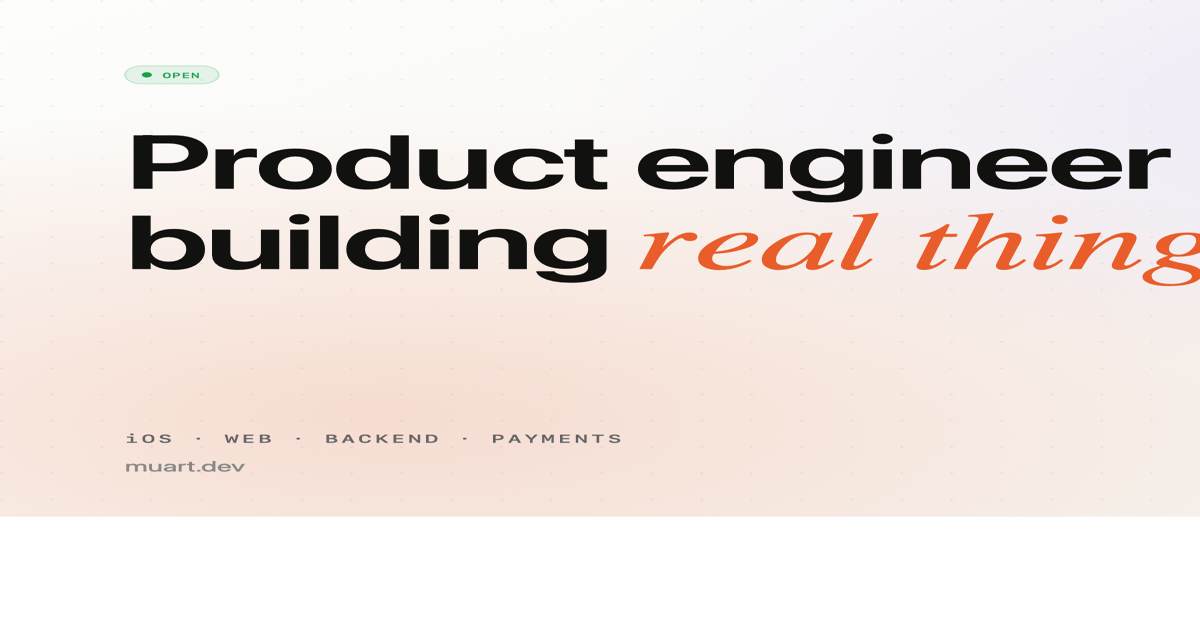
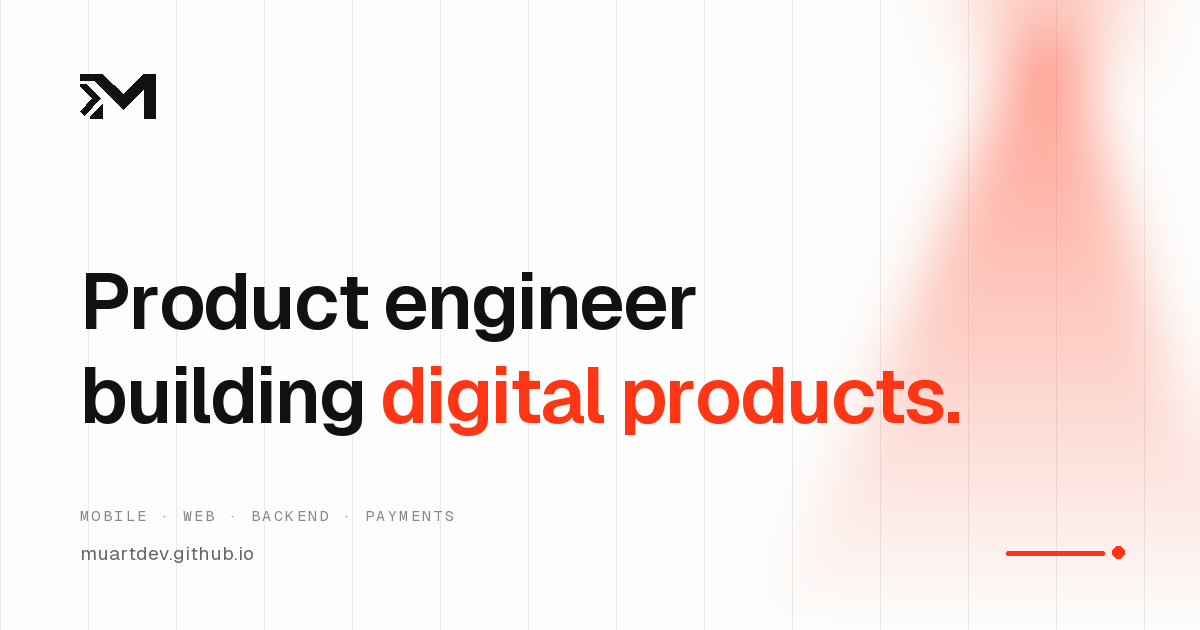
Centre the wide layout, refresh og image, stop hero and theme jitter
Desktop:
- centre the rail + content as one block above 1200px instead of pinning the
  rail left, which left a large void down the right edge on wide screens
- align the header contents to that block; hide the marquee scrollbar and the
  scroll hint, both of which sat in the empty margin

Social preview:
- redraw og.png in the current design (ruling, beam, M mark, real Geist) —
  the old one still carried the previous accent colour, the retired "OPEN"
  pill and the wrong address, muart.dev
- bump og:image to ?v=2 so the platforms refetch instead of serving cache

Hero:
- reserve the widest word of the active language behind the typewriter so the
  line width never changes; the width is measured, not counted, since
  "backend systems." is wider than the longer "digital products."
- account for the cursor's own 8px, and drop `text-wrap: balance` from the h1

Theme:
- collapse the two media-scoped theme-color tags into one; querySelector only
  ever found the light-scoped tag, so the browser chrome ignored the site's
  theme whenever the OS was dark
- swap the theme in one step. Custom properties don't animate, so the timed
  background fade left panels and borders snapping ahead of the page. Only
  the lamp still fades.

diff --git a/index.html b/index.html
@@ -5,20 +5,20 @@
   <meta name="viewport" content="width=device-width, initial-scale=1.0" />
   <meta name="description" content="Murat — Product Engineer building real products across mobile, web, and backend." />
   <meta name="author" content="Murat" />
-  <meta name="theme-color" content="#fdfdfc" media="(prefers-color-scheme: light)" />
-  <meta name="theme-color" content="#161616" media="(prefers-color-scheme: dark)" />
+  <!-- one unscoped tag: the site's own theme wins, not the OS preference -->
+  <meta name="theme-color" content="#fdfdfc" />
   <title>Murat — Product Engineer</title>
   <meta property="og:title" content="Murat — Product Engineer" />
   <meta property="og:description" content="Product engineer building real products across mobile, web, and backend." />
   <meta property="og:type" content="website" />
   <meta property="og:url" content="https://muartdev.github.io/" />
-  <meta property="og:image" content="https://muartdev.github.io/og.png" />
+  <meta property="og:image" content="https://muartdev.github.io/og.png?v=2" />
   <meta property="og:image:width" content="1200" />
   <meta property="og:image:height" content="630" />
   <meta name="twitter:card" content="summary_large_image" />
   <meta name="twitter:title" content="Murat — Product Engineer" />
   <meta name="twitter:description" content="Product engineer building real products across mobile, web, and backend." />
-  <meta name="twitter:image" content="https://muartdev.github.io/og.png" />
+  <meta name="twitter:image" content="https://muartdev.github.io/og.png?v=2" />
   <link rel="preconnect" href="https://fonts.googleapis.com" />
   <link rel="preconnect" href="https://fonts.gstatic.com" crossorigin />
   <link href="https://fonts.googleapis.com/css2?family=Geist:wght@400;500;600;700&family=Geist+Mono:wght@400;500&family=Instrument+Serif:ital@0;1&display=swap" rel="stylesheet" />
@@ -73,6 +73,8 @@
       --panel-hover: rgba(255, 255, 255, 0.78);
       --glass: blur(16px) saturate(170%);
       --rail-w: 232px;
+      --layout-max: 1440px;
+      --gutter: 0px; /* set from JS on wide screens so rail + content centre as one block */
 
       /* Hero backdrop */
       --fx-line: rgba(17, 17, 16, 0.085);
@@ -131,11 +133,17 @@
       -webkit-font-smoothing: antialiased;
       -webkit-tap-highlight-color: transparent;
       -webkit-text-size-adjust: 100%;
-      transition: background 0.4s ease, color 0.4s ease;
       overflow-x: clip;
     }
 
-    h1, h2, h3 { text-wrap: balance; }
+    /* held for one beat while data-theme flips, so nothing is caught mid-fade */
+    .theme-switching *,
+    .theme-switching *::before,
+    .theme-switching *::after { transition: none !important; }
+    /* the lamp is the one thing that should still fade — it reads as switching off */
+    .theme-switching .bg-fx { transition: opacity 0.5s ease !important; }
+
+    h2, h3 { text-wrap: balance; }
     p { text-wrap: pretty; }
 
     body.drawer-open { overflow: hidden; }
@@ -489,10 +497,15 @@
     .hero h1 .accent {
       color: var(--orange);
       font-family: var(--sans); font-style: normal; font-weight: 600;
-      position: relative;
-      display: inline-block;
-      white-space: nowrap;
+      /* ghost + live text share one cell, so the line is always as wide as the
+         longest word and the typewriter can never reflow anything */
+      display: inline-grid;
+      vertical-align: top;
     }
+    .hero h1 .accent > * { grid-area: 1 / 1; white-space: nowrap; }
+    /* padding = the cursor's own 4px width + its 4px margin */
+    .tw-ghost { visibility: hidden; padding-right: 8px; }
+    .tw-live { justify-self: start; }
     .cursor {
       display: inline-block;
       width: 4px;
@@ -941,12 +954,22 @@
 
     /* Wide screens: the panel stops being an overlay and becomes a permanent rail */
     @media (min-width: 1200px) {
-      body { padding-left: var(--rail-w); }
-      /* header spans the whole window, rail sits under it */
-      .topbar { margin-left: calc(-1 * var(--rail-w)); }
-      .topbar .shell { width: calc(100% - 56px); }
+      body {
+        padding-left: calc(var(--gutter) + var(--rail-w));
+        padding-right: var(--gutter);
+      }
+      /* header spans the whole window, its contents line up with the layout block */
+      .topbar {
+        margin-left: calc(-1 * (var(--gutter) + var(--rail-w)));
+        margin-right: calc(-1 * var(--gutter));
+      }
+      .topbar .shell { width: min(calc(100% - 56px), calc(var(--layout-max) - 56px)); }
+      .scroll-rail { display: none; }
+      .marquee-container { scrollbar-width: none; }
+      .marquee-container::-webkit-scrollbar { display: none; }
       .menu-btn, .drawer-scrim, .drawer-head { display: none; }
       .drawer {
+        left: var(--gutter);
         top: var(--topbar-h, 65px);
         height: calc(100dvh - var(--topbar-h, 65px));
         width: var(--rail-w);
@@ -1179,7 +1202,7 @@
   <main>
     <section class="hero shell" id="top">
       <div class="hero-copy">
-        <h1 data-i18n="hero.title" data-i18n-html>Product engineer<br />building<br /><span class="accent" id="typewriter"></span><span class="cursor"></span></h1>
+        <h1 data-i18n="hero.title" data-i18n-html>Product engineer<br />building<br /><span class="accent"><span class="tw-ghost" aria-hidden="true"></span><span class="tw-live"><span id="typewriter"></span><span class="cursor"></span></span></span></h1>
         <p class="hero-sub" data-i18n="hero.sub">I build products end to end: mobile apps, websites, authentication, payments, and deployment.</p>
         <div class="hero-cta">
           <a class="btn btn-primary" href="#work" data-i18n="hero.cta1">View Work</a>
@@ -1408,7 +1431,7 @@
   <script>
     const I18N = {
       en: {
-        "hero.title":"Product engineer<br />building<br /><span class=\"accent\" id=\"typewriter\"></span><span class=\"cursor\"></span>",
+        "hero.title":"Product engineer<br />building<br /><span class=\"accent\"><span class=\"tw-ghost\" aria-hidden=\"true\"></span><span class=\"tw-live\"><span id=\"typewriter\"></span><span class=\"cursor\"></span></span></span>",
         "hero.sub":"I build products end to end: mobile apps, websites, authentication, payments, and deployment.",
         "hero.cta1":"View Work","hero.cta2":"Get in touch",
         "nav.home":"Home","nav.work":"Selected Work","nav.stack":"What I Handle","nav.about":"About","nav.contact":"Contact",
@@ -1491,7 +1514,7 @@
         "footer.left":"© 2026 Murat — Turkey."
       },
       tr: {
-        "hero.title":"Product Engineer —<br /><span class=\"accent\" id=\"typewriter\"></span><span class=\"cursor\"></span>",
+        "hero.title":"Product Engineer —<br /><span class=\"accent\"><span class=\"tw-ghost\" aria-hidden=\"true\"></span><span class=\"tw-live\"><span id=\"typewriter\"></span><span class=\"cursor\"></span></span></span>",
         "hero.sub":"Mobil uygulamadan web sitesine, kimlik doğrulamadan ödemeye ve yayına almaya kadar ürünleri uçtan uca geliştiriyorum.",
         "hero.cta1":"Projeleri Gör","hero.cta2":"İletişime Geç",
         "nav.home":"Ana Sayfa","nav.work":"Seçili İşler","nav.stack":"Neleri Üstlenirim","nav.about":"Hakkımda","nav.contact":"İletişim",
@@ -1576,12 +1599,17 @@
     };
 
     function setTheme(t) {
-      document.documentElement.setAttribute("data-theme", t);
+      const root = document.documentElement;
+      // Custom properties don't animate, so a timed fade would leave panels and
+      // borders snapping while the page background lags. Swap everything at once.
+      root.classList.add("theme-switching");
+      root.setAttribute("data-theme", t);
       localStorage.setItem("theme", t);
       const m = document.querySelector('meta[name="theme-color"]');
-      if (m) m.setAttribute("content", t === "dark" ? "#0a0a0a" : "#fdfdfc");
+      if (m) m.setAttribute("content", t === "dark" ? "#0b0b0b" : "#fdfdfc");
       const tt = document.getElementById("themeToggle");
       if (tt) tt.setAttribute("aria-pressed", t === "dark" ? "true" : "false");
+      setTimeout(() => root.classList.remove("theme-switching"), 60);
     }
 
     const typeWords = {
@@ -1601,7 +1629,24 @@
       typeIndex = 0;
       const tw = document.getElementById("typewriter");
       if(tw) tw.textContent = "";
+      sizeTypewriterGhost();
       typeCycle();
+    };
+
+    /* Reserve the widest word of the active language. Measured, not counted —
+       the longest string is not always the widest one. */
+    window.sizeTypewriterGhost = () => {
+      const ghost = document.querySelector(".tw-ghost");
+      if (!ghost) return;
+      const lang = document.documentElement.getAttribute("lang") || "en";
+      const words = typeWords[lang] || typeWords.en;
+      let widest = "", max = -1;
+      for (const w of words) {
+        ghost.textContent = w;
+        const px = ghost.getBoundingClientRect().width;
+        if (px > max) { max = px; widest = w; }
+      }
+      ghost.textContent = widest;
     };
 
     const typeCycle = () => {
@@ -1649,6 +1694,11 @@
       root.setProperty("--fx-lamp-x", (k.left + k.width / 2).toFixed(1) + "px");
       root.setProperty("--fx-lamp-top", (k.bottom - barTop - 2).toFixed(1) + "px");
       root.setProperty("--topbar-h", bar.offsetHeight + "px");
+
+      // centre the rail + content block once the window is wider than the layout
+      const avail = document.documentElement.clientWidth;
+      const max = parseInt(getComputedStyle(document.documentElement).getPropertyValue("--layout-max")) || 1440;
+      root.setProperty("--gutter", Math.max(0, Math.round((avail - max) / 2)) + "px");
     }
 
     function setLang(l) {
@@ -1680,7 +1730,9 @@
       syncLightSource();
       window.addEventListener("resize", syncLightSource, { passive: true });
       // the toggle shifts when Geist finishes loading and the topbar reflows
-      if (document.fonts && document.fonts.ready) document.fonts.ready.then(syncLightSource);
+      if (document.fonts && document.fonts.ready) {
+        document.fonts.ready.then(() => { syncLightSource(); window.sizeTypewriterGhost(); });
+      }
       if (window.ResizeObserver) {
         new ResizeObserver(syncLightSource).observe(document.querySelector(".topbar"));
       }
